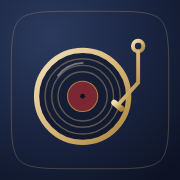
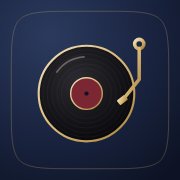
Banda Sonora: vinilo negro con filo dorado; Bitácora con «de lectura» como subtítulo
Claude-Session: https://claude.ai/code/session_016k35bzsaVrxmGnMwsVbJwM

Changed region(s): [[0.1667, 0.1944, 0.8333, 0.8056], [0.4444, 0.5, 0.5, 0.5556], [0.3611, 0.4167, 0.3889, 0.4444]]

diff --git a/bitacora/index.html b/bitacora/index.html
@@ -236,6 +236,7 @@ body{font-family:"Instrument Sans",system-ui,-apple-system,"Segoe UI",sans-serif
 .cab{display:flex;flex-direction:column;gap:8px;max-width:680px}
 .cab .eyebrow{font-family:"Instrument Sans",system-ui,-apple-system,"Segoe UI",sans-serif;font-size:11px;line-height:16px;font-weight:600;letter-spacing:.16em;text-transform:uppercase;color:var(--muted)}
 .cab h1{font-family:"Libre Caslon Display","Libre Caslon Text",Georgia,serif;font-weight:400;font-size:clamp(40px,10vw,64px);line-height:1;letter-spacing:0;margin:0;text-wrap:balance}
+.cab h1 .desc{font-family:"Libre Caslon Text",Georgia,serif;font-size:.4em;color:var(--muted);letter-spacing:.01em;white-space:nowrap}
 .cab .lema{font-family:"Libre Caslon Text",Georgia,serif;font-style:italic;font-size:clamp(19px,4.8vw,24px);line-height:1.25;color:var(--gold);margin:0}
 .cab .lede{margin:0;color:var(--muted);max-width:62ch;font-size:inherit}
 @media (min-width:900px){.shelf{zoom:1.45}}
@@ -248,7 +249,7 @@ h2{font-family:"Libre Caslon Display","Libre Caslon Text",Georgia,serif;font-wei
 <div class="wrap">
   <header class="cab">
     <span class="eyebrow" id="planCount">Plan de lectura</span>
-    <h1>Bitácora</h1>
+    <h1>Bitácora <span class="desc">de lectura</span></h1>
     <p class="lema">¿Qué leo hoy?</p>
     <p class="lede">Toca un libro para abrir su ficha. El círculo de cada fila avanza su estado de un toque.</p>
   </header>

diff --git a/index.html b/index.html
@@ -64,7 +64,7 @@ header p { margin: 0; text-wrap: balance; font-family: var(--cc-serif); font-sty
   <main class="apps">
     <a class="app" href="bitacora/"><span class="ico"><img src="iconos/bitacora-192.png?v=3" alt=""></span><h2>Bitácora</h2><p>Plan de lectura, compras y qué leer según el mood.</p><small>Móvil y ordenador</small></a>
     <a class="app" href="taquilla/"><span class="ico"><img src="iconos/la-taquilla-192.png?v=3" alt=""></span><h2>La Taquilla</h2><p>Diario de cine y series, con watchlist por mood.</p><small>Móvil y ordenador</small></a>
-    <a class="app" href="banda-sonora/"><span class="ico"><img src="iconos/banda-sonora-192.png?v=3" alt=""></span><h2>Banda Sonora</h2><p>Las doce listas de Spotify por momento y energía.</p><small>Móvil y ordenador</small></a>
+    <a class="app" href="banda-sonora/"><span class="ico"><img src="iconos/banda-sonora-192.png?v=4" alt=""></span><h2>Banda Sonora</h2><p>Las doce listas de Spotify por momento y energía.</p><small>Móvil y ordenador</small></a>
     <a class="app" href="interes-compuesto/"><span class="ico"><img src="iconos/interes-compuesto-192.png?v=3" alt=""></span><h2>Interés compuesto</h2><p>Presentación interactiva para clientes.</p><small>Ordenador</small></a>
   </main>
 

diff --git a/banda-sonora/index.html b/banda-sonora/index.html
@@ -6,8 +6,8 @@
 <meta name="apple-mobile-web-app-title" content="Banda Sonora">
 <meta name="apple-mobile-web-app-status-bar-style" content="black-translucent">
 <link rel="manifest" href="manifest.webmanifest">
-<link rel="apple-touch-icon" href="../iconos/banda-sonora-180.png?v=3">
-<link rel="icon" type="image/png" href="../iconos/banda-sonora-192.png?v=3">
+<link rel="apple-touch-icon" href="../iconos/banda-sonora-180.png?v=4">
+<link rel="icon" type="image/png" href="../iconos/banda-sonora-192.png?v=4">
 <link rel="stylesheet" href="../compartido/ciccapps.css?v=11">
 </head><body>
 

diff --git a/sw.js b/sw.js
@@ -1,5 +1,5 @@
 /* CiccApps — funciona sin conexión: guarda una copia de cada app y sus piezas al visitarlas. */
-const CACHE = 'ciccapps-v13';
+const CACHE = 'ciccapps-v14';
 self.addEventListener('install', e => self.skipWaiting());
 self.addEventListener('activate', e => e.waitUntil(
   caches.keys().then(ks => Promise.all(ks.filter(k => k !== CACHE).map(k => caches.delete(k)))).then(() => self.clients.claim())
